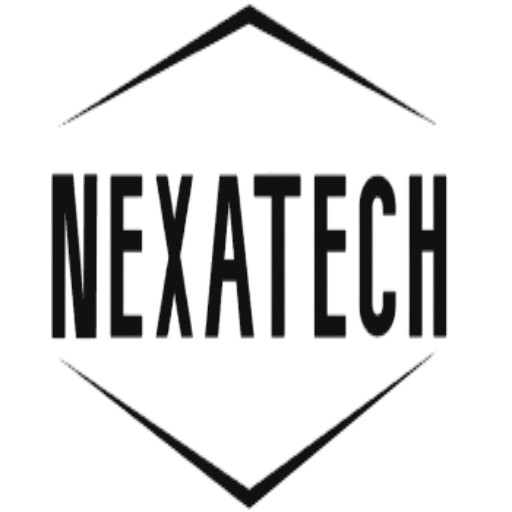
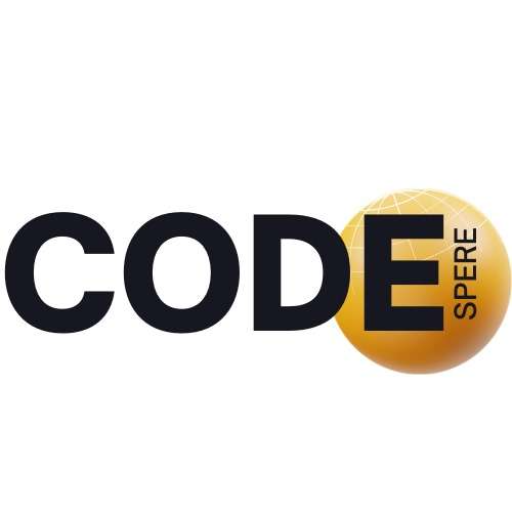
save

diff --git a/server_side/app.js b/server_side/app.js
@@ -7,7 +7,7 @@ require("dotenv").config();
 const cors = require("cors");
 const port = process.env.PORT || 3001;
 
-app.use(cors({ origin: "https://nexatech.co.za" }));
+app.use(cors({ origin: "https://codespere.co.za" }));
 app.use(bodyParser.json());
 
 app.get("/test", (req, res) => {
@@ -33,11 +33,11 @@ app.post(
     // Data from the request
     const { name, email, subject, message } = req.body;
 
-    // Message to send to Nexatech email
+    // Message to send to Codespere email
     const htmlMsg = `
     <div style="font-family: Arial, sans-serif; color: #333; line-height: 1.5; max-width: 600px; margin: auto; padding: 15px; background-color: #fafafa;">
       <div style="text-align: center; margin-bottom: 15px;">
-        <img src="https://nexatech.co.za/images/nexatech_logo.png" alt="Nexatech Logo" style="width: 80px; margin-bottom: 10px;">
+        <img src="https://codespere.co.za/images/codespere_logo.png" alt="Codespere Logo" style="width: 80px; margin-bottom: 10px;">
       </div>
       <h1 style="color: #004080; text-align: center; margin-bottom: 15px;">New Request</h1>
             <p style="font-size: 1rem; margin: 8px 0;"><strong>Subject:</strong> ${subject}</p>
@@ -48,17 +48,17 @@ app.post(
       <hr style="border: none; border-top: 1px solid #ddd; margin: 15px 0;">
       <p style="font-size: 0.85rem; color: #555; text-align: center;">
         This request was made from your website: 
-        <a href="https://www.nexatech.co.za" style="color: #007bff; text-decoration: none;">nexatech.co.za</a>
+        <a href="https://www.codespere.co.za" style="color: #007bff; text-decoration: none;">codespere.co.za</a>
       </p>
       <p style="font-size: 0.85rem; color: #555; text-align: center; margin-top: 10px;">
-        © ${new Date().getFullYear()} Nexatech | All rights reserved.
+        © ${new Date().getFullYear()} Codespere | All rights reserved.
       </p>
     </div>`;
 
     const nexatechMessage = `
     <div style="font-family: Arial, sans-serif; color: #333; line-height: 1.5; max-width: 600px; margin: auto; padding: 15px; background-color: #fafafa;">
       <div style="text-align: center; margin-bottom: 15px;">
-        <img src="https://nexatech.co.za/images/nexatech_logo.png" alt="Nexatech Logo" style="width: 80px; margin-bottom: 10px;">
+        <img src="https://codespere.co.za/images/codespere_logo.png" alt="Codespere Logo" style="width: 80px; margin-bottom: 10px;">
       </div>
       <h1 style="color: #004080; text-align: center; margin-bottom: 15px;">Thank You for Reaching Out!</h1>
       <p style="font-size: 1rem; margin: 8px 0; text-align: justify;">
@@ -71,14 +71,14 @@ app.post(
         In the meantime, feel free to explore our website for more information about our services.
       </p>
       <div style="text-align: center; margin: 15px 0;">
-        <a href="https://www.nexatech.co.za" style="background-color: #007bff; color: #fff; text-decoration: none; padding: 10px 15px; border-radius: 5px; font-size: 0.95rem;">Visit Our Website</a>
+        <a href="https://www.codespere.co.za" style="background-color: #007bff; color: #fff; text-decoration: none; padding: 10px 15px; border-radius: 5px; font-size: 0.95rem;">Visit Our Website</a>
       </div>
       <p style="font-size: 1rem; margin: 8px 0; text-align: justify;">
-        Thank you for choosing Nexatech.
+        Thank you for choosing Codespere.
       </p>
       <p style="font-size: 1rem; margin: 8px 0; text-align: justify;">
         <strong>Best regards,</strong><br>
-        The Nexatech Team
+        The Codespere Team
       </p>
       <hr style="border: none; border-top: 1px solid #ddd; margin: 15px 0;">
       <div style="text-align: center; margin: 10px 0;">
@@ -96,7 +96,7 @@ app.post(
         </a>
       </div>
       <p style="font-size: 0.85rem; color: #555; text-align: center; margin-top: 10px;">
-        © ${new Date().getFullYear()} Nexatech | All rights reserved.
+        © ${new Date().getFullYear()} Codespere | All rights reserved.
       </p>
     </div>`;
 
@@ -115,17 +115,17 @@ app.post(
     });
 
     try {
-      // Transport nodemailer function to send email to Nexatech email
+      // Transport nodemailer function to send email to Codespere email
       await transporter.sendMail({
-        from: `Nexatech Website <info@nexatech.co.za>`,
-        to: "info@nexatech.co.za, nigel@nexatech.co.za, siya@nexatech.co.za, prosper@nexatech.co.za",
+        from: `Codespere Website <info@codespere.co.za>`,
+        to: "info@codespere.co.za, nigel@codespere.co.za, siya@codespere.co.za, prosper@codespere.co.za",
         subject: subject,
         html: htmlMsg,
       });
 
       // Transport nodemailer function to send auto reply email to user
       await transporter.sendMail({
-        from: `Nexatech <info@nexatech.co.za>`,
+        from: `Codespere <info@codespere.co.za>`,
         to: email,
         subject: "Message Received",
         html: nexatechMessage,

diff --git a/public/index.html b/public/index.html
@@ -3,28 +3,28 @@
   <head>
     <meta charset="utf-8" />
     <meta http-equiv="x-ua-compatible" content="ie=edge" />
-    <meta name="author" content="NexaTech" />
+    <meta name="author" content="Codespere" />
     <meta
       name="description"
-      content="NexaTech is a leading provider of software solutions, web development, and IT services in South Africa. Partner with us for innovative, high-quality technology solutions to drive your digital transformation."
+      content="Codespere is a leading provider of software solutions, web development, and IT services in South Africa. Partner with us for innovative, high-quality technology solutions to drive your digital transformation."
     />
     <meta
       name="keywords"
-      content="NexaTech, software solutions, IT services, web development, software development, digital transformation, tech solutions, custom software, South Africa"
+      content="Codespere, software solutions, IT services, web development, software development, digital transformation, tech solutions, custom software, South Africa"
     />
     <meta name="robots" content="index, follow" />
 
     <!-- Open Graph Meta Tags for Social Media Sharing -->
     <meta
       property="og:title"
-      content="NexaTech | Leading Software Solutions & IT Services in South Africa"
+      content="Codespere | Leading Software Solutions & IT Services in South Africa"
     />
     <meta
       property="og:description"
       content="Empowering businesses in South Africa with top-notch software solutions, web development, and IT services for digital transformation."
     />
     <meta property="og:image" content="%PUBLIC_URL%/images/social-image.jpg" />
-    <meta property="og:url" content="https://www.nexatech.co.za" />
+    <meta property="og:url" content="https://www.codespere.co.za" />
     <meta property="og:type" content="website" />
     <meta property="og:locale" content="en_ZA" />
 
@@ -32,11 +32,11 @@
     <meta name="twitter:card" content="summary_large_image" />
     <meta
       name="twitter:title"
-      content="NexaTech | Leading Software Solutions & IT Services in South Africa"
+      content="Codespere | Leading Software Solutions & IT Services in South Africa"
     />
     <meta
       name="twitter:description"
-      content="Discover innovative software solutions and expert IT services with NexaTech in South Africa."
+      content="Discover innovative software solutions and expert IT services with Codespere in South Africa."
     />
     <meta name="twitter:image" content="%PUBLIC_URL%/images/social-image.jpg" />
 
@@ -47,7 +47,7 @@
     />
 
     <!-- Canonical Link for URL Consistency -->
-    <link rel="canonical" href="https://www.nexatech.co.za" />
+    <link rel="canonical" href="https://www.codespere.co.za" />
 
     <link rel="apple-touch-icon" sizes="180x180" href="/apple-touch-icon.png" />
     <link rel="icon" type="image/png" sizes="32x32" href="/favicon-32x32.png" />
@@ -63,7 +63,7 @@
 
     <!-- Title Tag -->
     <title>
-      NexaTech | Innovative Software Solutions & IT Services in South Africa
+      Codespere | Innovative Software Solutions & IT Services in South Africa
     </title>
   </head>
   <!-- Google tag (gtag.js) -->
@@ -88,8 +88,8 @@
       {
         "@context": "https://schema.org",
         "@type": "Organization",
-        "name": "NexaTech",
-        "url": "https://www.nexatech.co.za",
+        "name": "Codespere",
+        "url": "https://www.codespere.co.za",
         "logo": "%PUBLIC_URL%/images/favicon.png"
       }
     </script>

diff --git a/src/containers/Abouts/AboutFive.jsx b/src/containers/Abouts/AboutFive.jsx
@@ -31,7 +31,7 @@ const AboutFive = ({ ...restProps }) => (
             className="exp-media"
             number="2"
             title="Years Experience"
-            info="At NexaTech, we specialize in crafting tailored technology solutions that propel businesses forward. Our expertise spans web development, cloud services, IT management, and machine learning, allowing us to meet the diverse needs of our clients. We blend innovation with practical insights, ensuring each solution is both cutting-edge and highly functional. "
+            info="At Codespere, we specialize in crafting tailored technology solutions that propel businesses forward. Our expertise spans web development, cloud services, IT management, and machine learning, allowing us to meet the diverse needs of our clients. We blend innovation with practical insights, ensuring each solution is both cutting-edge and highly functional. "
           />
           <List className="list-style1">
             <List.Item>

diff --git a/src/containers/Headers/HeaderFour.jsx b/src/containers/Headers/HeaderFour.jsx
@@ -36,7 +36,7 @@ const HeaderFour = () => (
           </List.Item>
           <List.Item>
             <i className="far fa-envelope" />
-            <a href="mailto:info@nexatech.co.za">info@nexatech.co.za</a>
+            <a href="mailto:info@codespere.co.za">info@codespere.co.za</a>
           </List.Item>
         </List>
       </HeaderTop.Left>
@@ -55,7 +55,7 @@ const HeaderFour = () => (
         <div className="menu-area">
           <div className="row align-items-center justify-content-between">
             <div className="col-auto align-items-center">
-              <Logo image="images/nexatech_logo.png" className="header-logo" />
+              <Logo image="images/codespere_logo.jpg" className="header-logo" />
             </div>
             <div className="col-auto">
               <MainMenu className="menu-style3 d-none d-lg-block" />

diff --git a/src/containers/Footers/FooterThree.jsx b/src/containers/Footers/FooterThree.jsx
@@ -39,7 +39,7 @@ const FooterThree = () => (
               title="Contact Us"
               info={
                 <>
-                  <a href="mailto:info@nexatech.co.za">info@nexatech.co.za</a>
+                  <a href="mailto:info@codespere.co.za">info@codespere.co.za</a>
                   <br />
                   <a href="tel:+27647045825">(+27) 64 704 5825</a>
                 </>
@@ -116,9 +116,9 @@ const FooterThree = () => (
     <div className="copyright-wrap">
       <div className="container">
         <p className="copyright-text">
-          Copyright <i className="fal fa-copyright" /> 2024{" "}
+          Copyright <i className="fal fa-copyright" /> 2025{" "}
           <Link className="text-white" to="/">
-            NexaTech
+            Codespere
           </Link>
           . All rights reserved.
         </p>

diff --git a/src/App.js b/src/App.js
@@ -1,14 +1,13 @@
-import React from 'react';
+import React from "react";
 import { BrowserRouter } from "react-router-dom";
-import AppRouters from './routes/AppRouters';
+import AppRouters from "./routes/AppRouters";
 
 import "./assets/fonts/exo/exo.css";
 import "./assets/fonts/fira-sans/fira-sans.css";
-import "slick-carousel/slick/slick.css"; 
+import "slick-carousel/slick/slick.css";
 import "bootstrap/dist/css/bootstrap.min.css";
 import "./assets/css/fontawesome.css";
 import "./assets/scss/style.scss";
-
 
 function App() {
   return (

diff --git a/src/containers/Contacts/ContactTwo.jsx b/src/containers/Contacts/ContactTwo.jsx
@@ -46,8 +46,8 @@ const ContactTwo = ({ ...restProps }) => (
                     info={
                       <>
                         <a href="tel:+27647045825">+(27) 647045825</a>
-                        <a href="mailto:info@nexatech.co.za">
-                          info@nexatech.co.za
+                        <a href="mailto:info@codespere.co.za">
+                          info@codespere.co.za
                         </a>
                       </>
                     }

diff --git a/src/pages/HomeThree.js b/src/pages/HomeThree.js
@@ -19,7 +19,7 @@ import {
 
 const HomeThree = () => (
   <Fragment>
-    <Seo title="NexaTech" />
+    <Seo title="Codespere" />
     <HeaderFour />
     <HeroThree />
     <ServiceThree className="space-top space-extra-bottom" />
